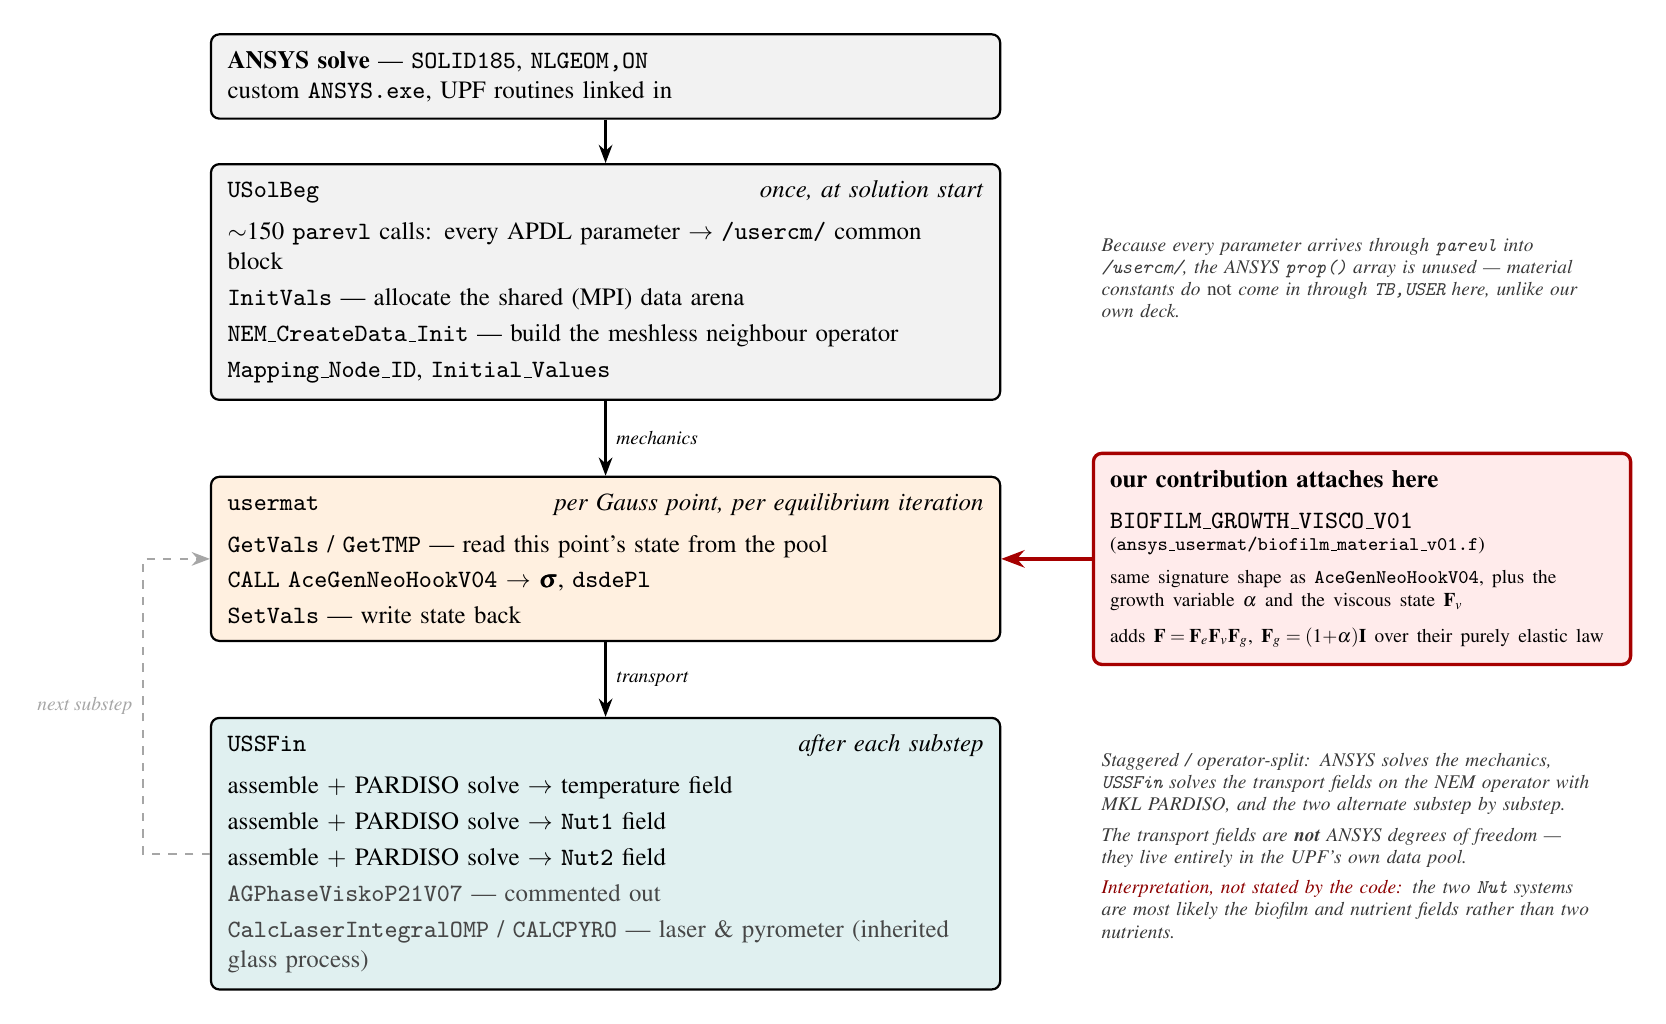
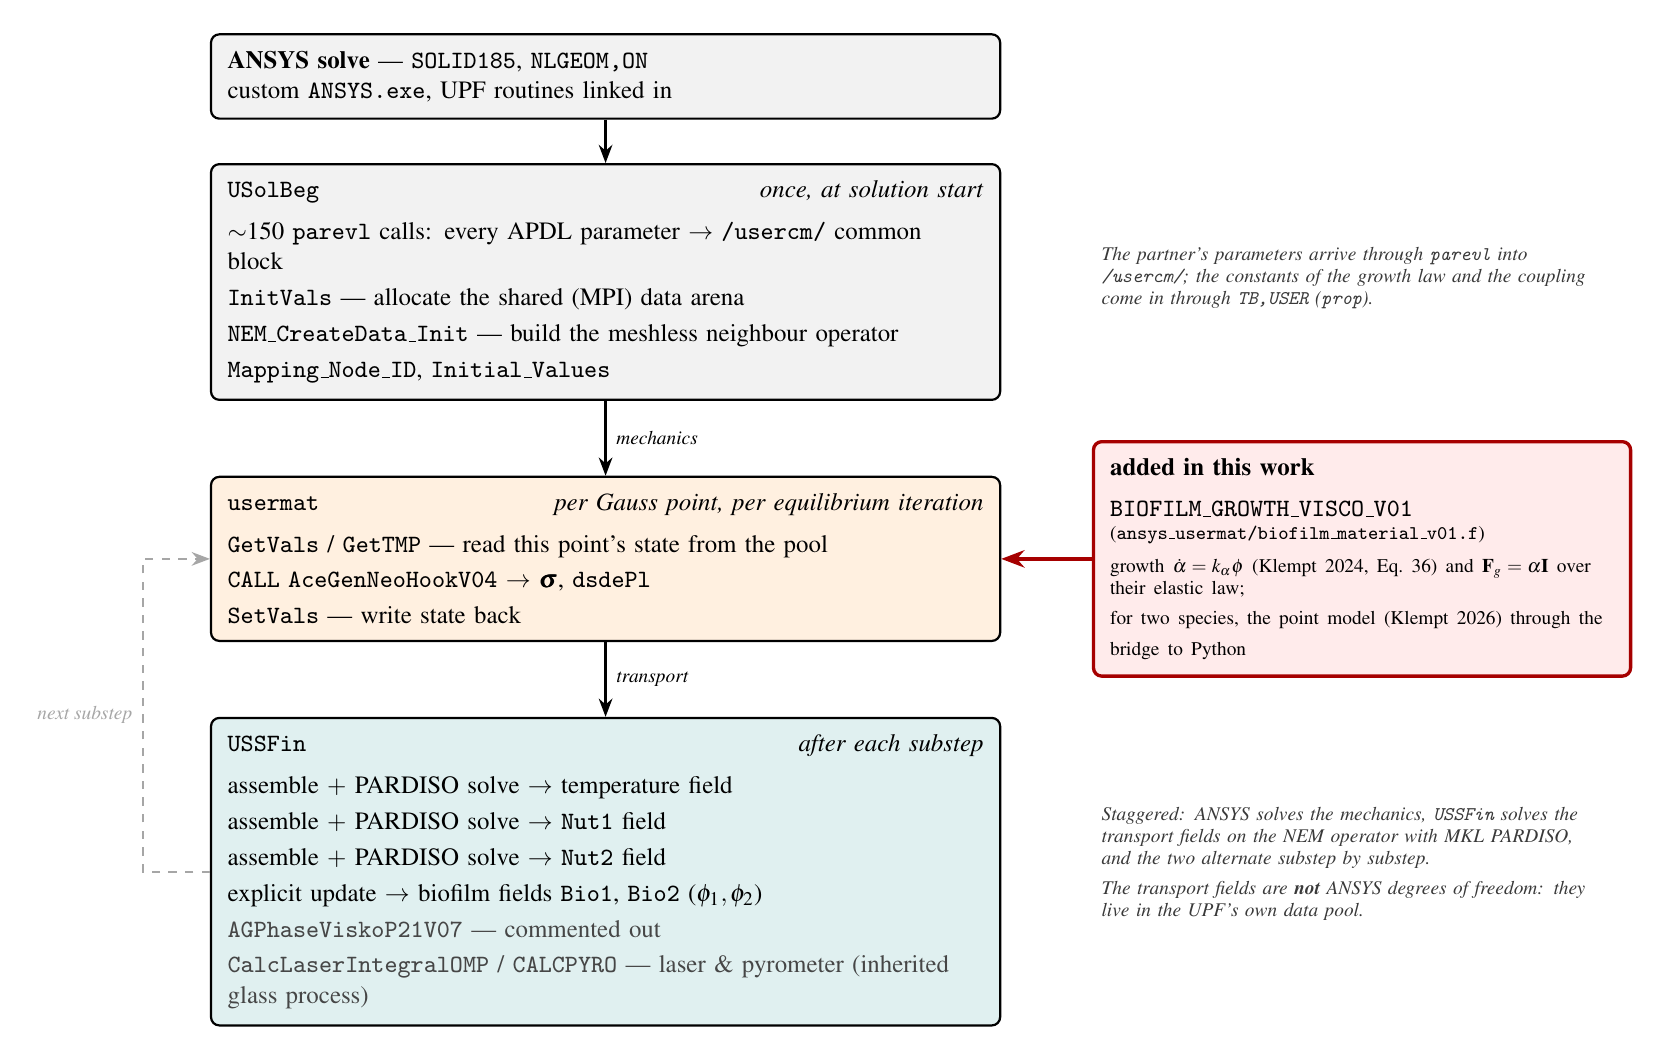
Partner loop figure: F_g = alpha I, 'added in this work', Bio1/Bio2 explicit update, prop for the growth law

diff --git a/ch5_flow/flow_oliver_solution_loop.tex b/ch5_flow/flow_oliver_solution_loop.tex
@@ -49,6 +49,7 @@
   assemble $+$ PARDISO solve $\rightarrow$ temperature field\\[2pt]
   assemble $+$ PARDISO solve $\rightarrow$ \texttt{Nut1} field\\[2pt]
   assemble $+$ PARDISO solve $\rightarrow$ \texttt{Nut2} field\\[2pt]
+  explicit update $\rightarrow$ biofilm fields \texttt{Bio1}, \texttt{Bio2} ($\phi_1,\phi_2$)\\[2pt]
   \textcolor{gray!55!black}{\texttt{AGPhaseViskoP21V07} — commented out}\\[2pt]
   \textcolor{gray!55!black}{\texttt{CalcLaserIntegralOMP} / \texttt{CALCPYRO}
     — laser \& pyrometer (inherited glass process)}};
@@ -58,32 +59,28 @@
 \draw[arb] (fld.west) -- ++(-0.85,0) |- node[lbl,pos=0.25,left,xshift=-2pt]
   {next substep} (gp.west);
 
-% ── our attachment point ────────────────────────────────────────────
+% ── attachment point of this work ───────────────────────────────────
 \node[Nours, right=1.15cm of gp] (ours) {%
-  \textbf{our contribution attaches here}\\[4pt]
+  \textbf{added in this work}\\[4pt]
   \texttt{BIOFILM\_GROWTH\_VISCO\_V01}\\
   \scriptsize(\texttt{ansys\_usermat/biofilm\_material\_v01.f})\\[4pt]
-  \scriptsize same signature shape as \texttt{AceGenNeoHookV04}, plus the
-  growth variable $\alpha$ and the viscous state $\mathbf F_v$\\[2pt]
-  \scriptsize adds $\mathbf F=\mathbf F_e\mathbf F_v\mathbf F_g$,
-  $\mathbf F_g=(1{+}\alpha)\mathbf I$ over their purely elastic law};
+  \scriptsize growth $\dot\alpha=k_\alpha\phi$ (Klempt 2024, Eq.~36) and
+  $\mathbf F_g=\alpha\mathbf I$ over their elastic law;\\
+  \scriptsize for two species, the point model (Klempt 2026) through
+  the bridge to Python};
 \draw[ar, draw=red!65!black, very thick] (ours) -- (gp);
 
 % ── annotations ─────────────────────────────────────────────────────
 \node[note, right=1.15cm of fld, yshift=0.1cm] (n1) {%
-  Staggered / operator-split: ANSYS solves the mechanics, \texttt{USSFin}
-  solves the transport fields on the NEM operator with MKL PARDISO, and the
-  two alternate substep by substep.\\[3pt]
-  The transport fields are \textbf{not} ANSYS degrees of freedom --- they live
-  entirely in the UPF's own data pool.\\[3pt]
-  \textcolor{red!55!black}{Interpretation, not stated by the code:} the two
-  \texttt{Nut} systems are most likely the biofilm and nutrient fields rather
-  than two nutrients.};
+  Staggered: ANSYS solves the mechanics, \texttt{USSFin} solves the
+  transport fields on the NEM operator with MKL PARDISO, and the two
+  alternate substep by substep.\\[3pt]
+  The transport fields are \textbf{not} ANSYS degrees of freedom: they live
+  in the UPF's own data pool.};
 
 \node[note, right=1.15cm of beg, yshift=0.05cm] {%
-  Because every parameter arrives through \texttt{parevl} into
-  \texttt{/usercm/}, the ANSYS \texttt{prop()} array is unused --- material
-  constants do \emph{not} come in through \texttt{TB,USER} here, unlike our
-  own deck.};
+  The partner's parameters arrive through \texttt{parevl} into
+  \texttt{/usercm/}; the constants of the growth law and the coupling come
+  in through \texttt{TB,USER} (\texttt{prop}).};
 
 \end{tikzpicture}
